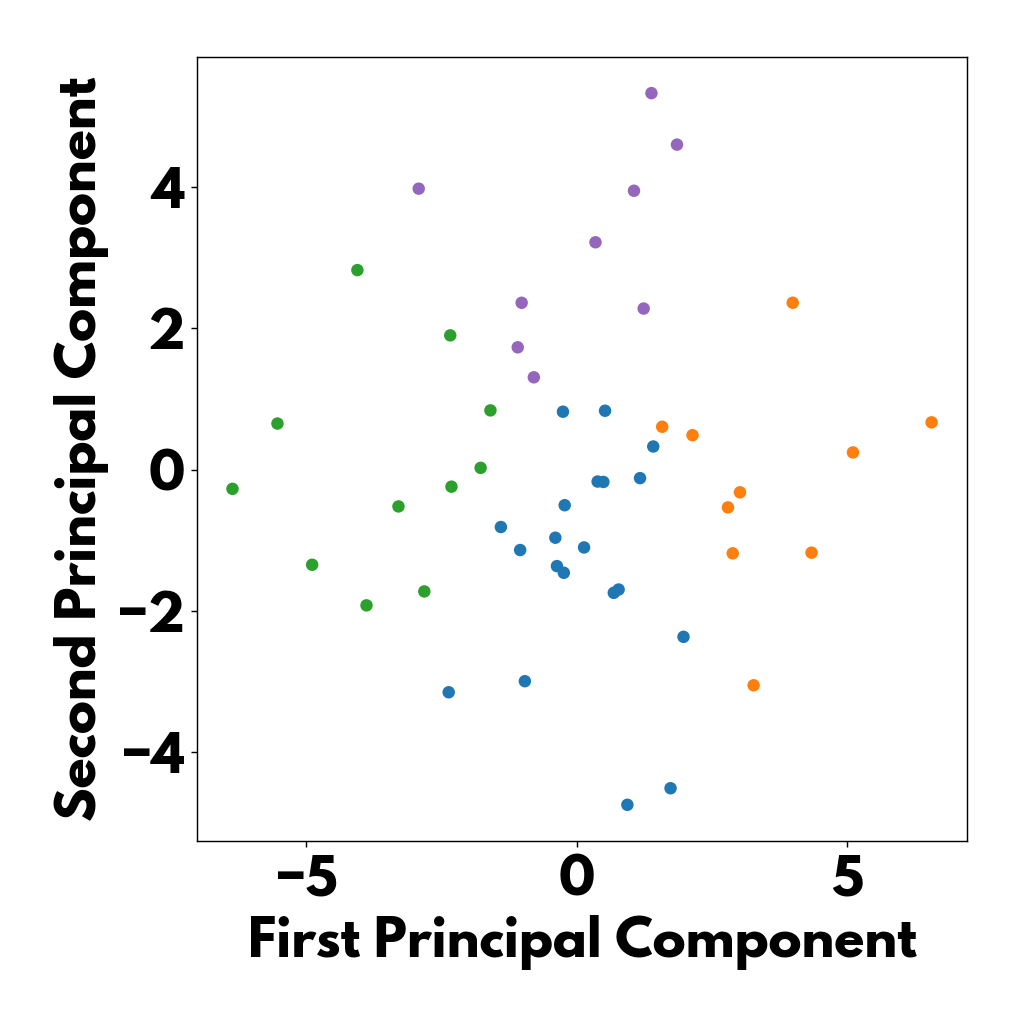
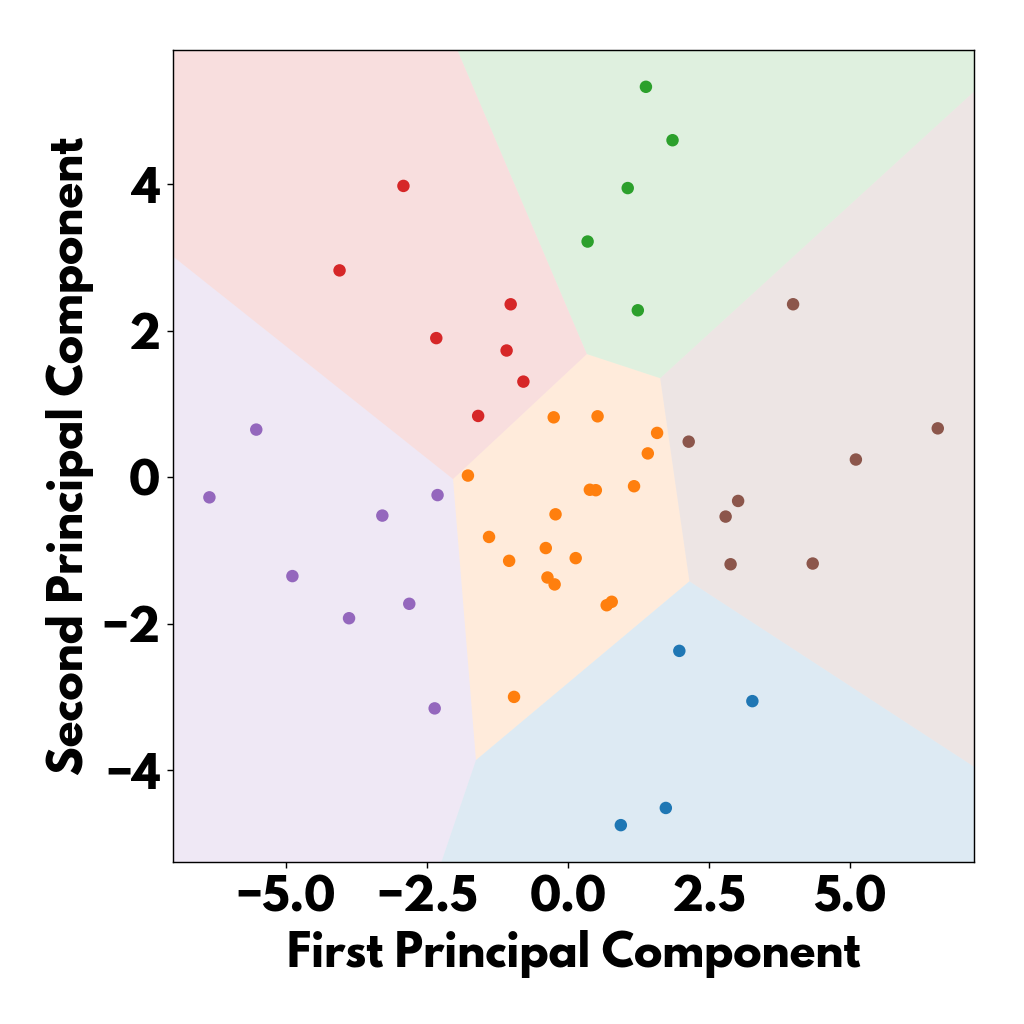
added voroni to clustering diagram

diff --git a/network_knife.py b/network_knife.py
@@ -15,6 +15,10 @@ from scipy.spatial.distance import cdist
 # from sklearn.preprocessing import StandardScaler
 from sklearn.decomposition import PCA
 from sklearn.cluster import KMeans
+from sklearn.metrics import silhouette_score
+
+from scipy.spatial import Voronoi, voronoi_plot_2d
+from voronoi_2d import voronoi_finite_polygons_2d
 
 if len(sys.argv) < 2 or '-s' not in sys.argv:
 	from imageio import imread
@@ -233,7 +237,7 @@ def test_network_knife(model, network_file_path, imagefiles_list, imagetypes_lis
 
 def colors(labels):
 	colors = []
-	colormap = ['tab:blue', 'tab:orange', 'tab:green', 'tab:purple', 'tab:red', 'tab:brown', 'tab:pink', 'tab:gray', 'tab:olive', 'tab:cyan']
+	colormap = ['tab:blue', 'tab:orange', 'tab:green', 'tab:red', 'tab:purple', 'tab:brown', 'tab:pink', 'tab:gray', 'tab:olive', 'tab:cyan']
 	for i in range(len(labels)):
 		colors.append(colormap[(int(labels[i])) % 10])
 	return colors
@@ -258,27 +262,37 @@ def plot_3_2d(x, colors):
 
 	plt.show()
 
-def plot_2d(x_list, c_list, t_list):
-	if len(x_list) != len(c_list) or len(c_list) != len(t_list):
-		print('Length of x, color, and title lists must be the same')
+def save_plot_2d(x, colors, title, cluster_centers=None):
+	fig = plt.figure(figsize=(1024/128, 1024/128), dpi=128)
 
-	if len(x_list) > 1:
-		fig = plt.figure(figsize=plt.figaspect(1 / len(x_list)))
-	else:
-		fig = plt.figure(figsize=(1024/128, 1024/128), dpi=128)
+	if len(x[0]) > 2: # use pca to remove extra dims
+		pca = PCA(n_components=2)
+		x = pca.fit_transform(x)
+		use_pca = True
 
-	for i, (x, colors, title) in enumerate(zip(x_list, c_list, t_list)):
-		if len(x[0]) > 2: # use pca to remove extra dims
-			pca = PCA(n_components=2)
-			x = pca.fit_transform(x)
-			use_pca = True
 
-		ax = fig.add_subplot(1, len(x_list), i+1)
-		ax.scatter(x[:, 0], x[:, 1], c=colors)
-		if use_pca:
-			ax.set_xlabel('First Principal Component')
-			ax.set_ylabel('Second Principal Component')
-		ax.set_title(title)
+	ax = fig.add_subplot(1, 1, 1)
+	ax.scatter(x[:, 0], x[:, 1], c=colors)
+	if use_pca:
+		ax.set_xlabel('First Principal Component')
+		ax.set_ylabel('Second Principal Component')
+	ax.set_title(title)
+
+	xlim = ax.get_xlim()
+	ylim = ax.get_ylim()
+
+	if cluster_centers is not None:
+		cluster_centers = pca.transform(cluster_centers)
+
+		vor = Voronoi(cluster_centers)
+		regions, vertices = voronoi_finite_polygons_2d(vor, 10)
+
+		for region in regions:
+			polygon = vertices[region]
+			plt.fill(*zip(*polygon), alpha=0.15)
+
+		plt.xlim(xlim)
+		plt.ylim(ylim)
 
 	plt.savefig('graphs/network_knife_ours.png', dpi=128)
 
@@ -302,10 +316,10 @@ def plot_3d(x_list, c_list, t_list, use_pca):
 
 	plt.show()
 
-def plot_results(x, cluster_labels, trial_labels, use_pca=True):
+def plot_results(x, cluster_labels, trial_labels, cluster_centers=None, use_pca=True):
 	font = {'family' : 'League Spartan',
 		'weight' : 'bold',
-		'size' : '28'}
+		'size' : '24'}
 	plt.rc('font', **font)
 	from matplotlib import rcParams
 	rcParams.update({'figure.autolayout': True})
@@ -316,14 +330,14 @@ def plot_results(x, cluster_labels, trial_labels, use_pca=True):
 
 	if use_pca:
 		pca = PCA(n_components=3)
-		x = pca.fit_transform(x)
+		x_pca = pca.fit_transform(x)
 		# print(pca.explained_variance_ratio_.cumsum())
 		# print(pca.components_)
 	else:
 		x = np.mean(x.reshape(len(trial_labels), 6, num_images), axis=2)
 
 	if use_pca:
-		x_list = [x, x]
+		x_list = [x_pca, x_pca]
 		c_list = [cluster_labels, trial_labels]
 		t_list = ['cluster labels', 'trial labels']
 	else:
@@ -334,13 +348,13 @@ def plot_results(x, cluster_labels, trial_labels, use_pca=True):
 		c_list = [cluster_labels, trial_labels, cluster_labels, trial_labels]
 		t_list = ['cluster labels, x 0-2', 'trial labels, x 0-2', 'cluster labels, x 3-6', 'trial labels, x 3-6']
 	plot_3d(x_list, c_list, t_list, use_pca)
-	plot_2d([x], [cluster_labels], [''])
+	save_plot_2d(x, cluster_labels, '', cluster_centers=cluster_centers)
 
 
 def match_data(trial_results_arr, orig_actions_arr, trials):
 	print(np.array(trial_results_arr).shape)
 	NUM_TRIALS = len(trials)
-	N_CLUSTERS = 4
+	num_clusters = 6 # 6 almost always gets the highest silhouette score
 
 	trial_labels = np.zeros((NUM_TRIALS, NUM_SLICES))
 	for i in range(NUM_TRIALS):
@@ -355,15 +369,30 @@ def match_data(trial_results_arr, orig_actions_arr, trials):
 		trial_results_scaled[trial_labels == trial_num] /= np.max(np.abs(trial_results_scaled[trial_labels == trial_num]), axis=0)
 		# trial_results_scaled[trial_labels == trial_num] = StandardScaler().fit(trial_results_scaled[trial_labels == trial_num]).transform(trial_results_scaled[trial_labels == trial_num])
 	
-	kmeans = KMeans(n_clusters=N_CLUSTERS, random_state=23588).fit(trial_results_scaled)
+	# import random
+	# for random_num in random.sample(range(1, 99999), 10):
+	# 	sh_scores = []
+	# 	clusters_to_check = range(2, 20)
+	# 	for num_clusters in clusters_to_check:
+	# 		kmeans = KMeans(n_clusters=num_clusters, random_state=random_num).fit(trial_results_scaled)
+	# 		sh = silhouette_score(trial_results_scaled, kmeans.labels_)
+	# 		sh_scores.append(sh)
+	# 	max_score = max(sh_scores)
+	# 	num_clusters = clusters_to_check[sh_scores.index(max_score)]
+	# 	print(num_clusters, max_score)
+
+
+	kmeans = KMeans(n_clusters=num_clusters, random_state=23588).fit(trial_results_scaled)
 	cluster_labels = kmeans.labels_
+	cluster_centers = kmeans.cluster_centers_
+
 	# print(np.column_stack((trial_labels, cluster_labels)))
 
-	plot_results(trial_results_scaled, cluster_labels, trial_labels, use_pca=True)
+	plot_results(trial_results_scaled, cluster_labels, trial_labels, cluster_centers=cluster_centers, use_pca=True)
 
 	# calculate stats for each cluster
 	print(trial_results_scaled.shape)
-	for i in range(N_CLUSTERS):
+	for i in range(num_clusters):
 		cluster_data = trial_results_scaled[
 			(cluster_labels == i)
 		 	# & (trial_labels  == 0)

diff --git a/voronoi_2d.py b/voronoi_2d.py
@@ -1,0 +1,86 @@
+# this code is by Pauli Virtanen
+
+import numpy as np
+
+def voronoi_finite_polygons_2d(vor, radius=None):
+    """
+    Reconstruct infinite voronoi regions in a 2D diagram to finite
+    regions.
+
+    Parameters
+    ----------
+    vor : Voronoi
+        Input diagram
+    radius : float, optional
+        Distance to 'points at infinity'.
+
+    Returns
+    -------
+    regions : list of tuples
+        Indices of vertices in each revised Voronoi regions.
+    vertices : list of tuples
+        Coordinates for revised Voronoi vertices. Same as coordinates
+        of input vertices, with 'points at infinity' appended to the
+        end.
+
+    """
+
+    if vor.points.shape[1] != 2:
+        raise ValueError("Requires 2D input")
+
+    new_regions = []
+    new_vertices = vor.vertices.tolist()
+
+    center = vor.points.mean(axis=0)
+    if radius is None:
+        radius = vor.points.ptp().max()
+
+    # Construct a map containing all ridges for a given point
+    all_ridges = {}
+    for (p1, p2), (v1, v2) in zip(vor.ridge_points, vor.ridge_vertices):
+        all_ridges.setdefault(p1, []).append((p2, v1, v2))
+        all_ridges.setdefault(p2, []).append((p1, v1, v2))
+
+    # Reconstruct infinite regions
+    for p1, region in enumerate(vor.point_region):
+        vertices = vor.regions[region]
+
+        if all(v >= 0 for v in vertices):
+            # finite region
+            new_regions.append(vertices)
+            continue
+
+        # reconstruct a non-finite region
+        ridges = all_ridges[p1]
+        new_region = [v for v in vertices if v >= 0]
+
+        for p2, v1, v2 in ridges:
+            if v2 < 0:
+                v1, v2 = v2, v1
+            if v1 >= 0:
+                # finite ridge: already in the region
+                continue
+
+            # Compute the missing endpoint of an infinite ridge
+
+            t = vor.points[p2] - vor.points[p1] # tangent
+            t /= np.linalg.norm(t)
+            n = np.array([-t[1], t[0]])  # normal
+
+            midpoint = vor.points[[p1, p2]].mean(axis=0)
+            direction = np.sign(np.dot(midpoint - center, n)) * n
+            far_point = vor.vertices[v2] + direction * radius
+
+            new_region.append(len(new_vertices))
+            new_vertices.append(far_point.tolist())
+
+        # sort region counterclockwise
+        vs = np.asarray([new_vertices[v] for v in new_region])
+        c = vs.mean(axis=0)
+        angles = np.arctan2(vs[:,1] - c[1], vs[:,0] - c[0])
+        new_region = np.array(new_region)[np.argsort(angles)]
+
+        # finish
+        new_regions.append(new_region.tolist())
+
+    return new_regions, np.asarray(new_vertices)
